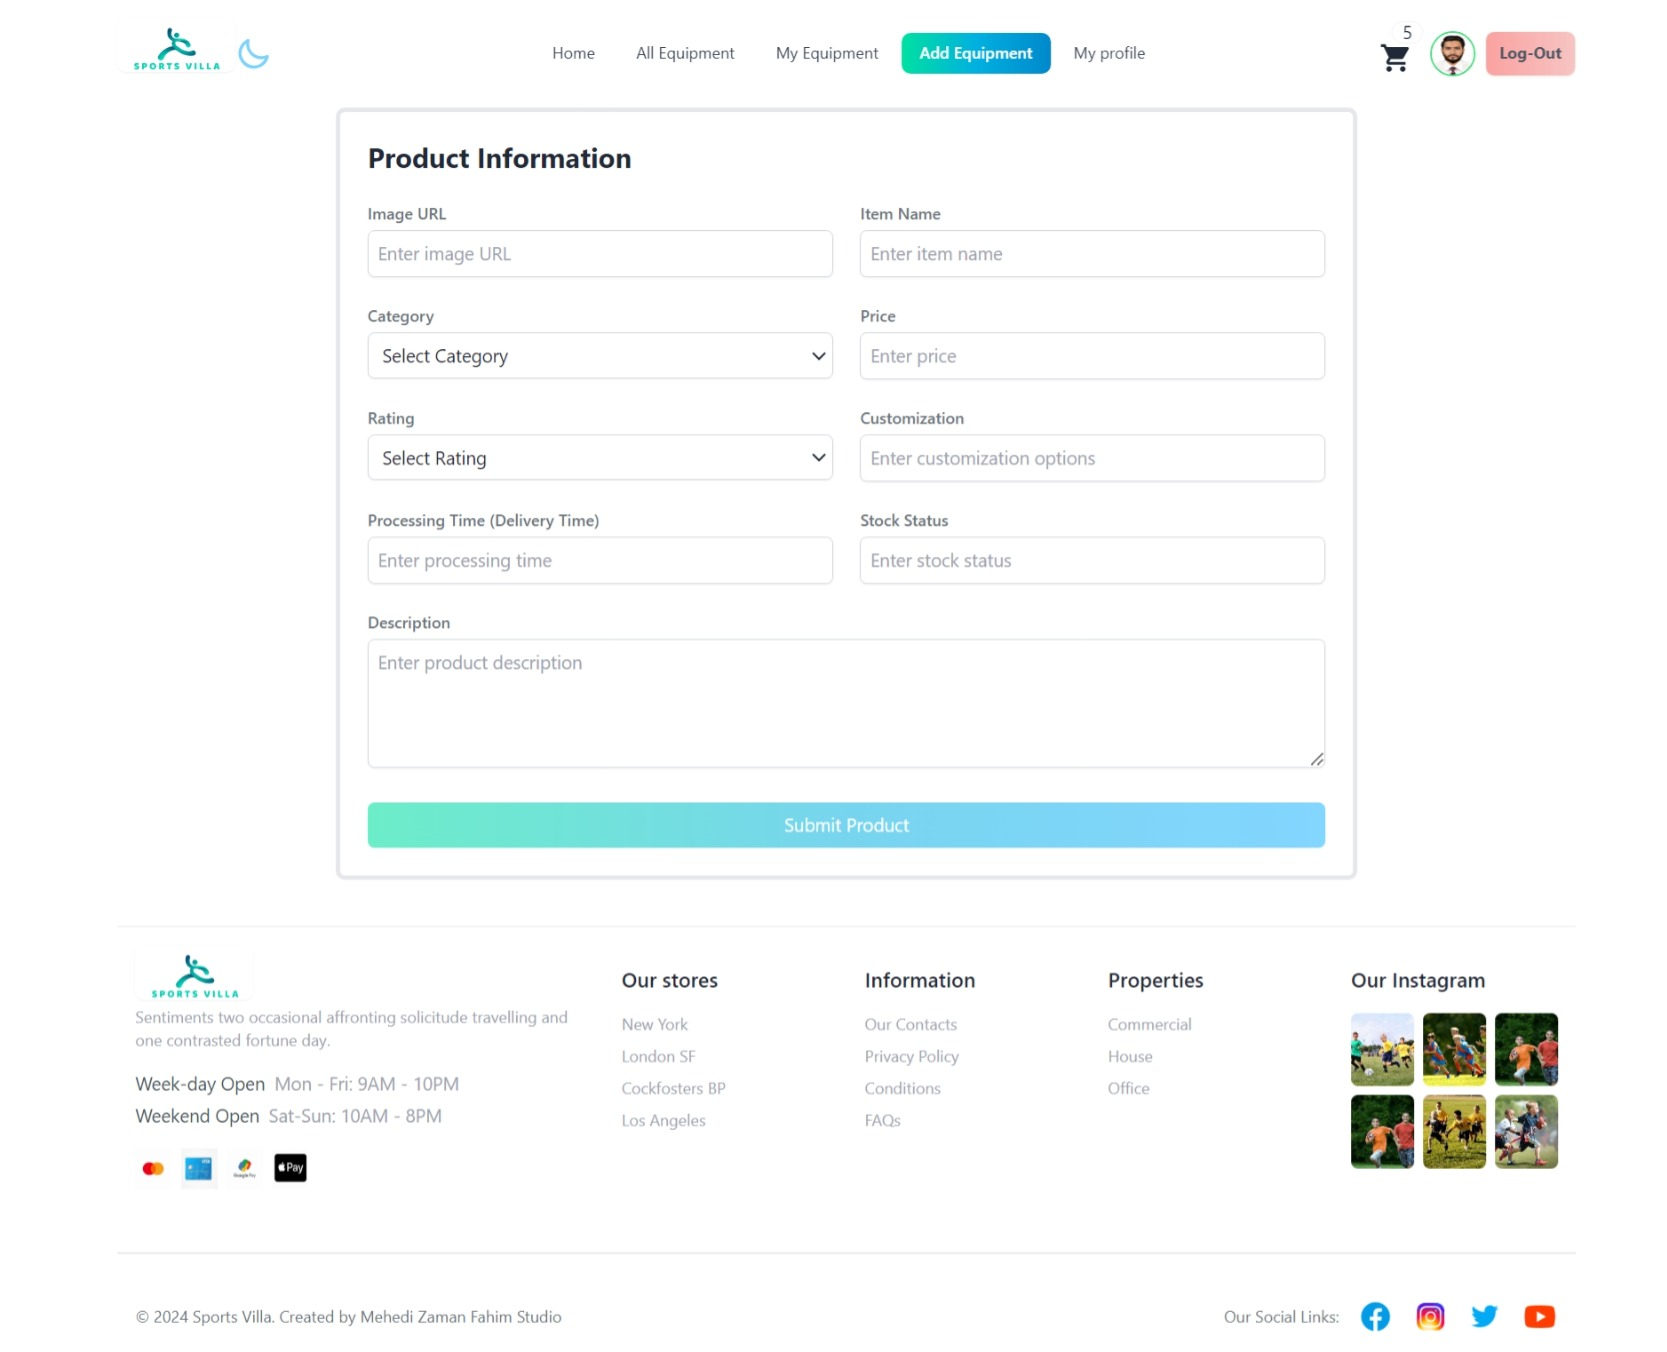
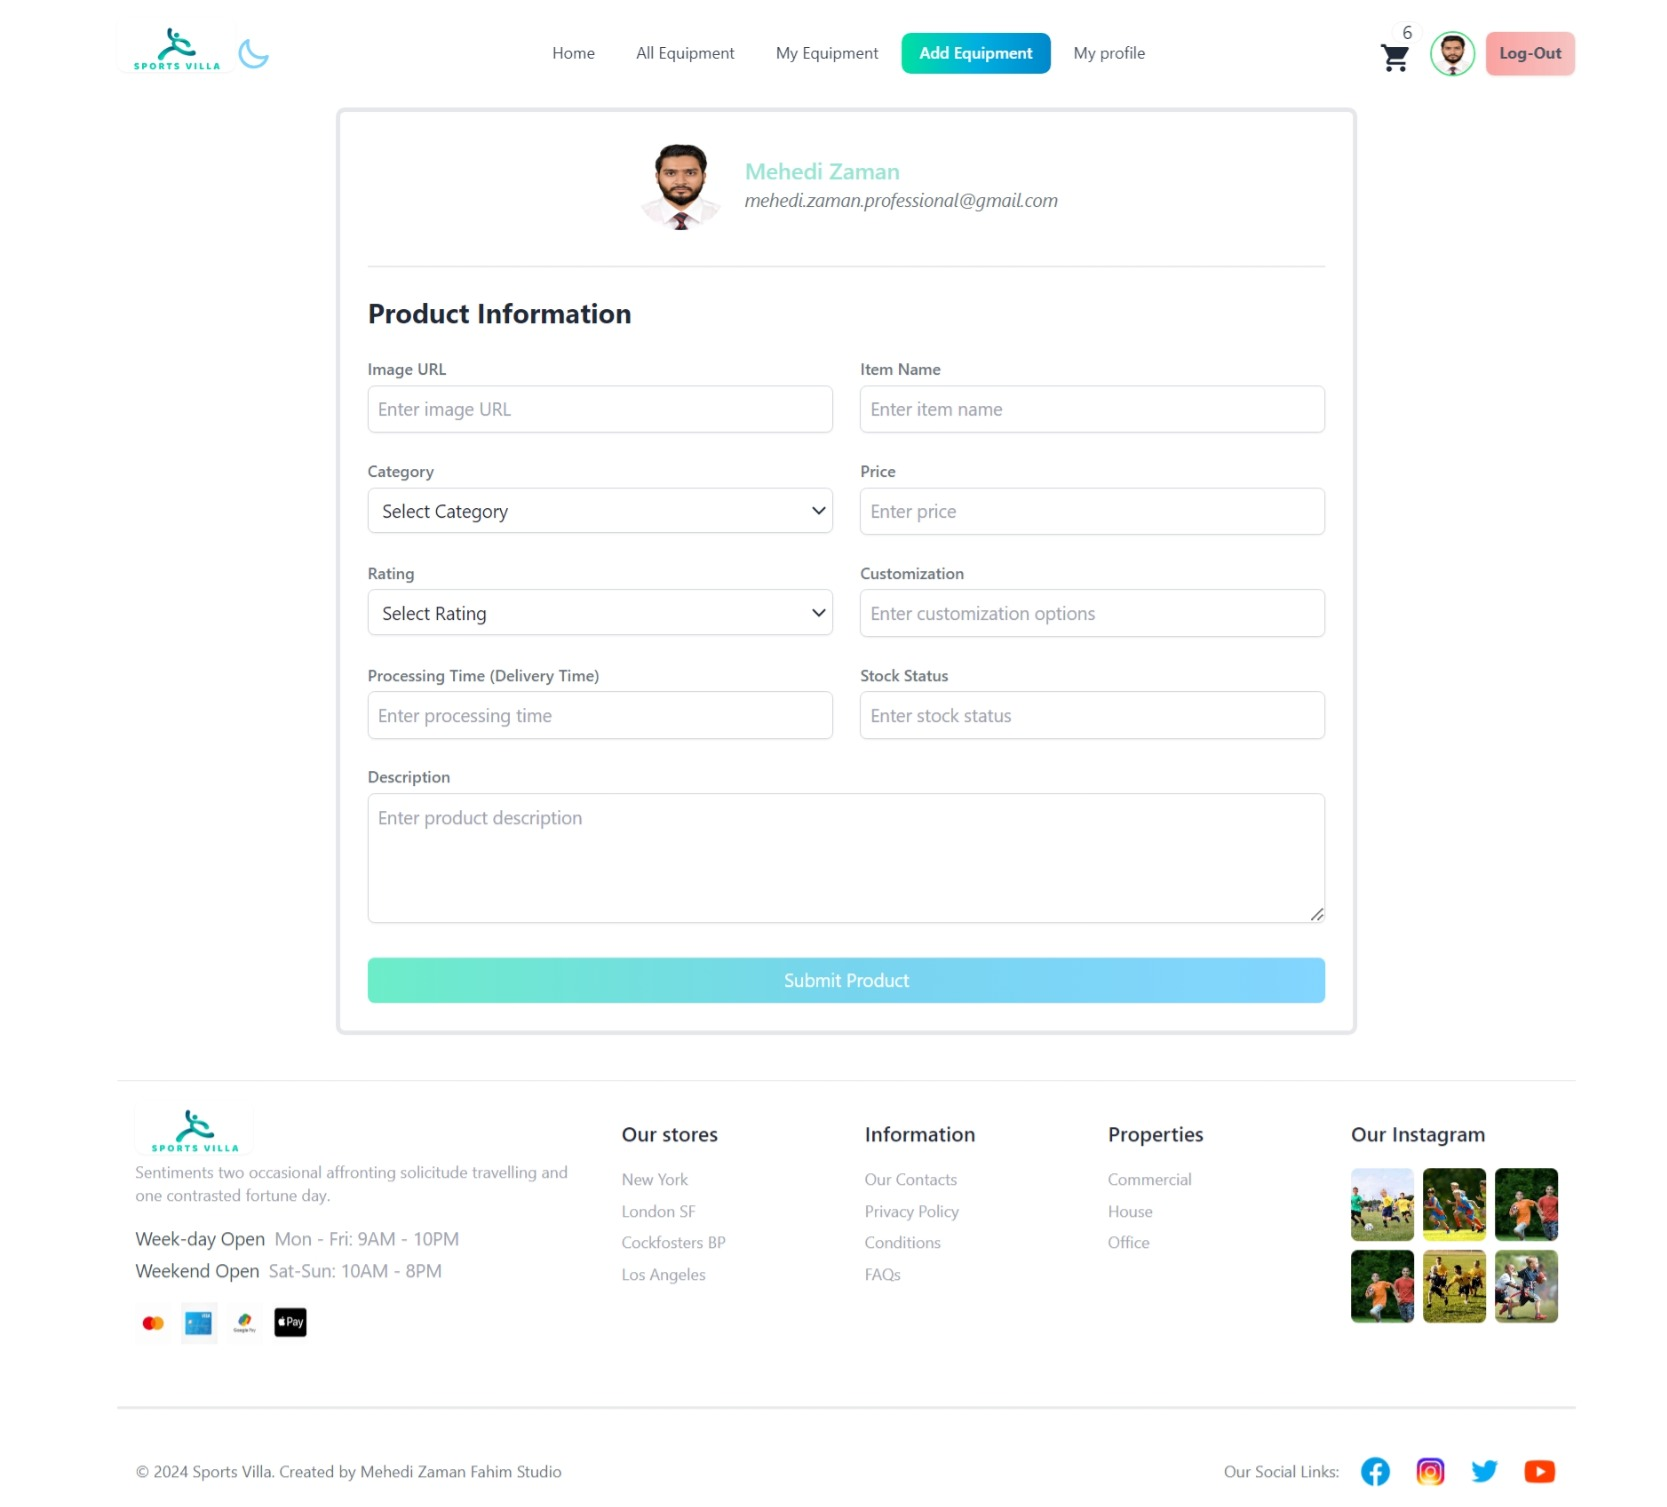
Add Equepment , Update Equipment and Readme file update

diff --git a/src/components/PrivateRoutComponent/AddEquipment.jsx b/src/components/PrivateRoutComponent/AddEquipment.jsx
@@ -54,148 +54,166 @@ export default function AddEquipment() {
   };
 
   return (
-    <form
-      onSubmit={handleSubmit}
-      className="max-w-full sm:max-w-4xl mx-auto p-6 bg-base-100 rounded-lg border-4 solid border-gray-200 mb-10"
-    >
-      <h2 className="text-2xl font-bold mb-6">Product Information</h2>
+    <div>
+      <form
+        onSubmit={handleSubmit}
+        className="max-w-full sm:max-w-4xl mx-auto p-6 bg-base-100 rounded-lg border-4 solid border-gray-200 mb-10"
+      >
+        <div className="flex items-center gap-4 mb-6 w-fit mx-auto overflow-hidden">
+          <div className="w-20 h-20 rounded-full">
+            <img
+              className="w-full h-full rounded-full"
+              src={user?.photoURL}
+              alt={user ? user.displayName : ""}
+            />
+          </div>
 
-      <div className="grid grid-cols-1 sm:grid-cols-2 lg:grid-cols-2 gap-6">
-        {/* Image */}
-        <div className="col-span-1">
-          <label className="block text-sm font-medium text-gray-500">
-            Image URL
-          </label>
-          <input
-            type="text"
-            name="image"
-            placeholder="Enter image URL"
-            className="mt-1 p-2 w-full border border-gray-300 rounded-md shadow-sm focus:outline-none focus:ring-2 focus:ring-blue-500"
-          />
+          <div>
+            <h1 className="text-[#97e5d4] font-semibold text-xl">
+              {user ? user.displayName : ""}
+            </h1>
+            <p className="text-gray-500 italic">{user ? user.email : ""}</p>
+          </div>
+        </div>
+        <div className="divider"></div>
+        <h2 className="text-2xl font-bold mb-6">Product Information</h2>
+        <div className="grid grid-cols-1 sm:grid-cols-2 lg:grid-cols-2 gap-6">
+          {/* Image */}
+          <div className="col-span-1">
+            <label className="block text-sm font-medium text-gray-500">
+              Image URL
+            </label>
+            <input
+              type="text"
+              name="image"
+              placeholder="Enter image URL"
+              className="mt-1 p-2 w-full border border-gray-300 rounded-md shadow-sm focus:outline-none focus:ring-2 focus:ring-blue-500"
+            />
+          </div>
+
+          {/* Item Name */}
+          <div className="col-span-1">
+            <label className="block text-sm font-medium text-gray-500">
+              Item Name
+            </label>
+            <input
+              type="text"
+              name="itemName"
+              placeholder="Enter item name"
+              className="mt-1 p-2 w-full border border-gray-300 rounded-md shadow-sm focus:outline-none focus:ring-2 focus:ring-blue-500"
+            />
+          </div>
+
+          {/* Category */}
+          <div className="col-span-1">
+            <label className="block text-sm font-medium text-gray-500">
+              Category
+            </label>
+            <select
+              name="category"
+              className="mt-1 p-2 w-full border border-gray-300 rounded-md shadow-sm focus:outline-none focus:ring-2 focus:ring-blue-500"
+            >
+              <option value="">Select Category</option>
+              <option value="Cricket">Cricket</option>
+              <option value="Football">Football</option>
+              <option value="Others">Others</option>
+            </select>
+          </div>
+
+          {/* Price */}
+          <div className="col-span-1">
+            <label className="block text-sm font-medium text-gray-500">
+              Price
+            </label>
+            <input
+              type="number"
+              name="price"
+              placeholder="Enter price"
+              className="mt-1 p-2 w-full border border-gray-300 rounded-md shadow-sm focus:outline-none focus:ring-2 focus:ring-blue-500"
+            />
+          </div>
+
+          {/* Rating */}
+          <div className="col-span-1">
+            <label className="block text-sm font-medium text-gray-500">
+              Rating
+            </label>
+            <select
+              name="rating"
+              className="mt-1 p-2 w-full border border-gray-300 rounded-md shadow-sm focus:outline-none focus:ring-2 focus:ring-blue-500"
+            >
+              <option value="">Select Rating</option>
+              {[1, 2, 3, 4, 5].map((rate) => (
+                <option key={rate} value={rate}>
+                  {rate}
+                </option>
+              ))}
+            </select>
+          </div>
+
+          {/* Customization */}
+          <div className="col-span-1">
+            <label className="block text-sm font-medium text-gray-500">
+              Customization
+            </label>
+            <input
+              type="text"
+              name="customization"
+              placeholder="Enter customization options"
+              className="mt-1 p-2 w-full border border-gray-300 rounded-md shadow-sm focus:outline-none focus:ring-2 focus:ring-blue-500"
+            />
+          </div>
+
+          {/* Processing Time */}
+          <div className="col-span-1">
+            <label className="block text-sm font-medium text-gray-500">
+              Processing Time (Delivery Time)
+            </label>
+            <input
+              type="text"
+              name="processingTime"
+              placeholder="Enter processing time"
+              className="mt-1 p-2 w-full border border-gray-300 rounded-md shadow-sm focus:outline-none focus:ring-2 focus:ring-blue-500"
+            />
+          </div>
+
+          {/* Stock Status */}
+          <div className="col-span-1">
+            <label className="block text-sm font-medium text-gray-500">
+              Stock Status
+            </label>
+            <input
+              type="number"
+              name="stockStatus"
+              placeholder="Enter stock status"
+              className="mt-1 p-2 w-full border border-gray-300 rounded-md shadow-sm focus:outline-none focus:ring-2 focus:ring-blue-500"
+            />
+          </div>
+
+          {/* Description */}
+          <div className="col-span-1 sm:col-span-2 lg:col-span-2">
+            <label className="block text-sm font-medium text-gray-500">
+              Description
+            </label>
+            <textarea
+              name="description"
+              placeholder="Enter product description"
+              rows="4"
+              className="mt-1 p-2 w-full border border-gray-300 rounded-md shadow-sm focus:outline-none focus:ring-2 focus:ring-blue-500"
+            ></textarea>
+          </div>
         </div>
 
-        {/* Item Name */}
-        <div className="col-span-1">
-          <label className="block text-sm font-medium text-gray-500">
-            Item Name
-          </label>
-          <input
-            type="text"
-            name="itemName"
-            placeholder="Enter item name"
-            className="mt-1 p-2 w-full border border-gray-300 rounded-md shadow-sm focus:outline-none focus:ring-2 focus:ring-blue-500"
-          />
-        </div>
-
-        {/* Category */}
-        <div className="col-span-1">
-          <label className="block text-sm font-medium text-gray-500">
-            Category
-          </label>
-          <select
-            name="category"
-            className="mt-1 p-2 w-full border border-gray-300 rounded-md shadow-sm focus:outline-none focus:ring-2 focus:ring-blue-500"
+        {/* Submit Button */}
+        <div className="mt-6">
+          <button
+            type="submit"
+            className="w-full rounded-md py-2 px-4 bg-gradient-to-r from-[#00e0a093] via-[#00afe088]  to-[#1bb3ff8b] text-white hover:bg-blue-600/50"
           >
-            <option value="">Select Category</option>
-            <option value="Cricket">Cricket</option>
-            <option value="Football">Football</option>
-            <option value="Others">Others</option>
-          </select>
+            Submit Product
+          </button>
         </div>
-
-        {/* Price */}
-        <div className="col-span-1">
-          <label className="block text-sm font-medium text-gray-500">
-            Price
-          </label>
-          <input
-            type="number"
-            name="price"
-            placeholder="Enter price"
-            className="mt-1 p-2 w-full border border-gray-300 rounded-md shadow-sm focus:outline-none focus:ring-2 focus:ring-blue-500"
-          />
-        </div>
-
-        {/* Rating */}
-        <div className="col-span-1">
-          <label className="block text-sm font-medium text-gray-500">
-            Rating
-          </label>
-          <select
-            name="rating"
-            className="mt-1 p-2 w-full border border-gray-300 rounded-md shadow-sm focus:outline-none focus:ring-2 focus:ring-blue-500"
-          >
-            <option value="">Select Rating</option>
-            {[1, 2, 3, 4, 5].map((rate) => (
-              <option key={rate} value={rate}>
-                {rate}
-              </option>
-            ))}
-          </select>
-        </div>
-
-        {/* Customization */}
-        <div className="col-span-1">
-          <label className="block text-sm font-medium text-gray-500">
-            Customization
-          </label>
-          <input
-            type="text"
-            name="customization"
-            placeholder="Enter customization options"
-            className="mt-1 p-2 w-full border border-gray-300 rounded-md shadow-sm focus:outline-none focus:ring-2 focus:ring-blue-500"
-          />
-        </div>
-
-        {/* Processing Time */}
-        <div className="col-span-1">
-          <label className="block text-sm font-medium text-gray-500">
-            Processing Time (Delivery Time)
-          </label>
-          <input
-            type="text"
-            name="processingTime"
-            placeholder="Enter processing time"
-            className="mt-1 p-2 w-full border border-gray-300 rounded-md shadow-sm focus:outline-none focus:ring-2 focus:ring-blue-500"
-          />
-        </div>
-
-        {/* Stock Status */}
-        <div className="col-span-1">
-          <label className="block text-sm font-medium text-gray-500">
-            Stock Status
-          </label>
-          <input
-            type="number"
-            name="stockStatus"
-            placeholder="Enter stock status"
-            className="mt-1 p-2 w-full border border-gray-300 rounded-md shadow-sm focus:outline-none focus:ring-2 focus:ring-blue-500"
-          />
-        </div>
-
-        {/* Description */}
-        <div className="col-span-1 sm:col-span-2 lg:col-span-2">
-          <label className="block text-sm font-medium text-gray-500">
-            Description
-          </label>
-          <textarea
-            name="description"
-            placeholder="Enter product description"
-            rows="4"
-            className="mt-1 p-2 w-full border border-gray-300 rounded-md shadow-sm focus:outline-none focus:ring-2 focus:ring-blue-500"
-          ></textarea>
-        </div>
-      </div>
-
-      {/* Submit Button */}
-      <div className="mt-6">
-        <button
-          type="submit"
-          className="w-full rounded-md py-2 px-4 bg-gradient-to-r from-[#00e0a093] via-[#00afe088]  to-[#1bb3ff8b] text-white hover:bg-blue-600/50"
-        >
-          Submit Product
-        </button>
-      </div>
-    </form>
+      </form>
+    </div>
   );
 }

diff --git a/src/components/PrivateRoutComponent/UpdateEquipment.jsx b/src/components/PrivateRoutComponent/UpdateEquipment.jsx
@@ -74,6 +74,23 @@ export default function UpdateEquipment() {
       onSubmit={handleUpdateCoffee}
       className="max-w-full sm:max-w-4xl mx-auto p-6 bg-base-100 rounded-lg border-4 solid border-gray-200 mb-10"
     >
+      <div className="flex items-center gap-4 mb-6 w-fit mx-auto overflow-hidden">
+        <div className="w-20 h-20 rounded-full">
+          <img
+            className="w-full h-full rounded-full"
+            src={user?.photoURL}
+            alt={user ? user.displayName : ""}
+          />
+        </div>
+
+        <div>
+          <h1 className="text-[#97e5d4] font-semibold text-xl">
+            {user ? user.displayName : ""}
+          </h1>
+          <p className="text-gray-500 italic">{user ? user.email : ""}</p>
+        </div>
+      </div>
+      <div className="divider"></div>
       <h2 className="text-2xl font-bold mb-6">Product Information</h2>
 
       <div className="grid grid-cols-1 sm:grid-cols-2 lg:grid-cols-2 gap-6">

diff --git a/src/components/Footer.jsx b/src/components/Footer.jsx
@@ -127,7 +127,7 @@ export default function Footer() {
       </div>
       <div className="divider"></div>
 
-      <div className=" text-gray-500 py-4">
+      <div className=" text-gray-500 py-4 col-span-2 md:col-span-1">
         <div className="container mx-auto px-4 flex flex-col md:flex-row items-center justify-between">
           <p className="text-sm">
             &copy; 2024 Sports Villa. Created by Mehedi Zaman Fahim Studio
